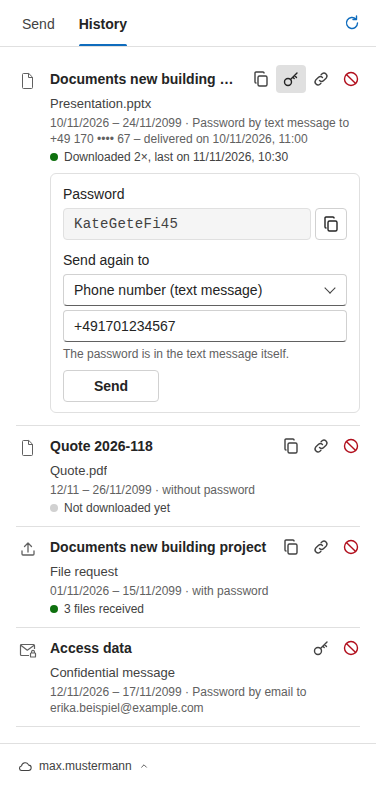
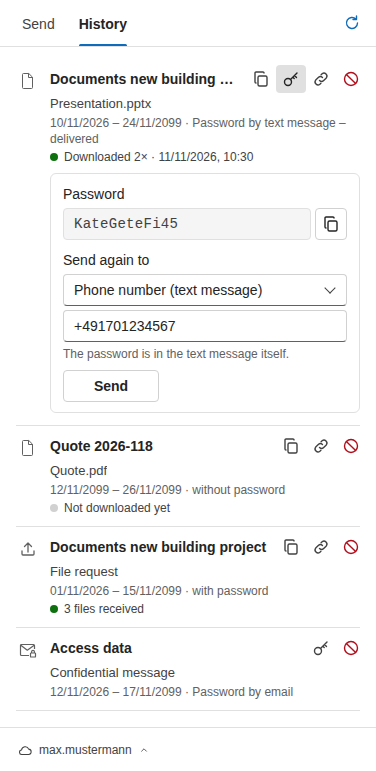
Compact history rows; dates dd.mm.yyyy, times HH:MM Uhr (#97)
* Compact history rows; dates always dd.mm.yyyy, times "HH:MM Uhr"

- "Verlauf": the delivery proof is a small seal after the file name (tracking
  ID in its tooltip, a click opens the PDF) instead of a line and a button;
  the password line names only the way (address and SMS state in the
  tooltip); the download state in one line.
- Every date in pane, cards, mails and PDF as dd.mm.yyyy, every time as
  "HH:MM Uhr" (en: dd/mm/yyyy, HH:MM); the PDF's "valid until" too.

* Read-mode test: the short password line; README pictures

---------

diff --git a/addin/src/taskpane/taskpane.ts b/addin/src/taskpane/taskpane.ts
@@ -1105,7 +1105,9 @@ function settingsProblem(kind: "file" | "request" | "message"): string | null {
   return null;
 }
 
-const formatDate = (isoDate: string) => new Date(isoDate).toLocaleDateString(locale());
+/** Every date in the pane and the cards: day and month with two digits and the full year ("02.12.2026"). */
+const DATE_FORMAT = { day: "2-digit", month: "2-digit", year: "numeric" } as const;
+const formatDate = (when: string | number) => new Date(when).toLocaleDateString(locale(), DATE_FORMAT);
 
 /** Empty paragraph after an inserted card, so the cursor ends up below it (see insertIntoBody). */
 const AFTER_CARD = "<p style=\"margin:0;\"><br></p>";
@@ -1999,6 +2001,16 @@ interface ShareItem {
 }
 
 /** "Kennwort per SMS an +49 170 •••• 78 – zugestellt am 16.11.2026, 14:05" for the "Verlauf" list. */
+/** The way in a few words for the line ("Kennwort per Mail", "Kennwort per SMS – zugestellt"); the rest in the tooltip. */
+function passwordShort(p: NonNullable<ShareItem["password"]>): string {
+  if (p.channel === "mail") return t("shares.passwordMailShort");
+  const status =
+    p.status === "delivered" ? t("shares.smsDelivered")
+    : p.status === "failed" ? t(p.refused ? "shares.smsFailed" : "shares.smsUndelivered")
+    : t("shares.smsSubmitted");
+  return t("shares.passwordSmsShort", { status });
+}
+
 function passwordText(p: NonNullable<ShareItem["password"]>): string {
   if (p.channel === "mail") return t("shares.passwordMail", { to: p.to });
   const status =
@@ -2066,7 +2078,7 @@ async function openSentMail(share: ShareItem) {
 function formatDateTime(when: string | number): string {
   const d = new Date(when);
   return t("shares.dateTime", {
-    date: d.toLocaleDateString(locale(), { day: "2-digit", month: "2-digit", year: "numeric" }),
+    date: d.toLocaleDateString(locale(), DATE_FORMAT),
     time: d.toLocaleTimeString(locale(), { hour: "2-digit", minute: "2-digit" }),
   });
 }
@@ -2106,9 +2118,8 @@ const isValid = (share: ShareItem) => share.expiration === null || share.expirat
 /** Start of a link's period, without the year if it ends in the same year: "15.11." (de) / "15/11" (en-GB). */
 function shortDate(sharedAt: number, expiration: string): string {
   const from = new Date(sharedAt);
-  return from.getFullYear() === Number(expiration.slice(0, 4))
-    ? from.toLocaleDateString(locale(), { day: "2-digit", month: "2-digit" })
-    : from.toLocaleDateString(locale());
+  void expiration; // always with the year now (dd.mm.yyyy)
+  return formatDate(from.getTime());
 }
 
 /** Copies text; the async clipboard API is not available in every Outlook version. */
@@ -2315,12 +2326,10 @@ function shareRow(share: ShareItem): HTMLElement {
     `<button type="button" class="btn btn-subtle btn-icon copy">${ICONS.copy}</button>` +
     `<button type="button" class="btn btn-subtle btn-icon show-password" aria-expanded="false" hidden>${ICONS.password}</button>` +
     `<button type="button" class="btn btn-subtle btn-icon insert">${ICONS.insert}</button>` +
-    `<button type="button" class="btn btn-subtle btn-icon proof" hidden>${ICONS.proof}</button>` +
     `<button type="button" class="btn btn-subtle btn-icon btn-danger revoke">${ICONS.revoke}</button>` +
     `</div></div>` +
     `<div class="share-meta"><span class="share-period"></span> · <span class="share-password"></span></div>` +
     `<div class="share-meta share-unsent" hidden></div>` +
-    `<div class="share-meta share-proof" hidden></div>` +
     `<div class="share-state${state.done ? " done" : ""}">` +
     `<span class="dot-state" aria-hidden="true"></span><span class="state-text"></span></div>` +
     `<div class="password-panel" hidden></div></div>`;
@@ -2331,16 +2340,6 @@ function shareRow(share: ShareItem): HTMLElement {
   label(row.querySelector<HTMLButtonElement>(".copy")!, t("shares.copyLabel"));
   label(row.querySelector<HTMLButtonElement>(".insert")!, t("shares.insertLabel"));
   label(row.querySelector<HTMLButtonElement>(".revoke")!, t("shares.revokeLabel"));
-  // "Zustellnachweis": the tracking ID below the period, and "Nachweis" opens the PDF in the default browser.
-  if (share.proofId) {
-    const proofLine = row.querySelector<HTMLElement>(".share-proof")!;
-    proofLine.textContent = t("shares.proofLine", { id: share.proofId });
-    proofLine.hidden = false;
-    const proofButton = row.querySelector<HTMLButtonElement>(".proof")!;
-    label(proofButton, t("shares.proofLabel", { id: share.proofId }));
-    proofButton.hidden = false;
-    proofButton.addEventListener("click", () => void openProof(share.proofId!, proofButton));
-  }
   // Too long for the line: shortened in the middle ("cloudshare-icon-va…nten.png"), so the extension stays visible.
   const [start, end] = nameParts(share.name);
   const nameStart = document.createElement("span");
@@ -2389,22 +2388,33 @@ function shareRow(share: ShareItem): HTMLElement {
     } else {
       item.textContent = t(`shares.kind.${share.kind}`);
     }
+    // "Zustellnachweis": a small seal after it – the tracking ID in its tooltip, a click opens the PDF ("Nachweis").
+    if (share.proofId) {
+      const seal = document.createElement("button");
+      seal.type = "button";
+      seal.className = "btn btn-subtle btn-icon proof-seal";
+      seal.innerHTML = ICONS.proof;
+      label(seal, t("shares.proofLabel", { id: share.proofId }));
+      seal.addEventListener("click", () => void openProof(share.proofId!, seal));
+      item.append(seal);
+    }
     row.querySelector(".share-head")!.after(item);
   }
 
   // "15.11. – 29.11.2026 · Kennwort per SMS an +49 170 •••• 72 – übermittelt": the word "Kennwort" only once.
   const period = row.querySelector<HTMLElement>(".share-period")!;
-  const sharedOn = new Date(share.sharedAt).toLocaleDateString(locale());
+  const sharedOn = formatDate(share.sharedAt);
   period.textContent = share.expiration
-    ? t("shares.period", { from: shortDate(share.sharedAt, share.expiration), until: formatDate(share.expiration) })
+    ? t("shares.period", { from: shortDate(share.sharedAt, share.expiration), until: formatDate(`${share.expiration}T12:00:00`) })
     : t("shares.since", { from: sharedOn });
   period.title = [t("shares.sharedOn", { date: sharedOn }), share.expiration ? t("shares.validUntil", { date: formatDate(share.expiration) }) : ""]
     .filter(Boolean)
     .join(", ");
   const passwordLine = row.querySelector<HTMLElement>(".share-password")!;
   passwordLine.textContent = share.password
-    ? passwordText(share.password)
+    ? passwordShort(share.password)
     : t(share.protected === false ? "shares.withoutPassword" : "shares.withPassword");
+  passwordLine.title = share.password ? passwordText(share.password) : "";
   passwordLine.classList.toggle("failed", share.password?.status === "failed");
 
   row.querySelector<HTMLElement>(".state-text")!.textContent = state.text;
@@ -2419,7 +2429,7 @@ function shareRow(share: ShareItem): HTMLElement {
     line.textContent = share.downloads?.count
       ? t("shares.unsentDownloaded")
       : share.revokeAt
-        ? t("shares.unsentRevoke", { date: new Date(share.revokeAt).toLocaleDateString(locale()) })
+        ? t("shares.unsentRevoke", { date: formatDate(share.revokeAt) })
         : t("shares.unsent");
     line.hidden = false;
   }

diff --git a/docs/mockups/proof-pdf.html b/docs/mockups/proof-pdf.html
@@ -29,44 +29,44 @@ body { background: #e8e8e8; padding: 16px; }
 <div class="page">
   <div class="t1">Proof of delivery</div>
   <div class="t2">Case 20261117-1146-7Q2F</div>
-  <div class="intro">CloudShare’s record for the message from max.mustermann@example.com, started on 17 Nov 2026, 11:46:03.</div>
+  <div class="intro">CloudShare’s record for the message from max.mustermann@example.com, started on 17/11/2026, 11:46.</div>
   <div class="ok">Record unchanged: 9 entries, chained without gaps.</div>
   <div class="mono grey7">Check value: 5c0e9b1f7a24d3e86b1f0c9a4d72e5b8a3f61c0d9e47b2a8f5c3d1e09b7a6f42c</div>
 
   <div class="h">Events</div>
-  <div class="ev">1. 17 Nov 2026, 11:46:03 – Proof of delivery started</div>
+  <div class="ev">1. 17/11/2026, 11:46 – Proof of delivery started</div>
   <div class="d">Sender: max.mustermann@example.com</div>
   <div class="d">Outlook: Outlook · PC · 16.0.18129.20000</div>
   <div class="mono hash">Hash: 9f2c61e0b4a8d37c5e1f09a2b6d48c73e05f1a9b2c8d4e6f7a3b1c0d9e8f7a61</div>
 
-  <div class="ev">2. 17 Nov 2026, 11:46:41 – Link created: file</div>
+  <div class="ev">2. 17/11/2026, 11:46 – Link created: file</div>
   <div class="d">Name: Angebot_2026-118.pdf</div>
-  <div class="d">Protection: password · Valid until: 2026-12-01 · Size: 2.5 MB (2,621,440 B)</div>
+  <div class="d">Protection: password · Valid until: 01/12/2026 · Size: 2.5 MB (2,621,440 B)</div>
   <div class="d">Password to: the recipients of the message · Password retrievable (times): 3</div>
   <div class="mono m">SHA-256: 3a7bd3e2360a3d29eea436fcfb7e44c735d117c42d1c1835420b6b9942dd4f1b</div>
   <div class="mono hash">Hash: 1b8e4c2a9f07d6e35b1c8a40f2e9d7c6b5a43e21f0d9c8b7a6e5d4c3b2a1f0e9</div>
 
-  <div class="ev">3. 17 Nov 2026, 11:47:20 – Message sent</div>
+  <div class="ev">3. 17/11/2026, 11:47 – Message sent</div>
   <div class="d">Subject: Quote 2026-118 · From: max.mustermann@example.com</div>
-  <div class="d">To: erika.beispiel@example.com · Sent: 17 Nov 2026, 11:47:12</div>
+  <div class="d">To: erika.beispiel@example.com · Sent: 17/11/2026, 11:47</div>
   <div class="mono m">Message-ID: &lt;AM9PR04MB8423D1F2C3B4A5E6F7A8B9C0D1E2F3A4@AM9PR04MB8423.eurprd04.prod.outlook.com&gt;</div>
   <div class="mono hash">Hash: c4d7e2a1b09f8e6d5c3b2a1f0e9d8c7b6a5f4e3d2c1b0a9f8e7d6c5b4a3f2e1d</div>
 
-  <div class="ev">4. 17 Nov 2026, 11:47:21 – Password sent by email</div>
+  <div class="ev">4. 17/11/2026, 11:47 – Password sent by email</div>
   <div class="d">To: erika.beispiel@example.com</div>
 
-  <div class="ev">5. 17 Nov 2026, 14:02:37 – Code sent to recipient</div>
+  <div class="ev">5. 17/11/2026, 14:02 – Code sent to recipient</div>
   <div class="d">Email address: erika.beispiel@example.com · IP address: 203.0.113.24</div>
 
-  <div class="ev">6. 17 Nov 2026, 14:03:05 – Recipient confirmed</div>
+  <div class="ev">6. 17/11/2026, 14:03 – Recipient confirmed</div>
   <div class="d">Email address: erika.beispiel@example.com · IP address: 203.0.113.24</div>
   <div class="d">Browser: Mozilla/5.0 (Windows NT 10.0; Win64; x64) … Edg/142.0</div>
 
-  <div class="ev">7. 17 Nov 2026, 14:10:00 – Password link opened</div>
+  <div class="ev">7. 17/11/2026, 14:10 – Password link opened</div>
   <div class="d">Total accesses: 1</div>
 
-  <div class="ev">8. 17 Nov 2026, 14:10:00 – Downloaded</div>
-  <div class="d">Time according to Nextcloud: 17 Nov 2026, 14:03:31 · Concerns: Angebot_2026-118.pdf</div>
+  <div class="ev">8. 17/11/2026, 14:10 – Downloaded</div>
+  <div class="d">Time according to Nextcloud: 17/11/2026, 14:03 · Concerns: Angebot_2026-118.pdf</div>
   <div class="mono hash">Hash: 7e6d5c4b3a2f1e0d9c8b7a6f5e4d3c2b1a0f9e8d7c6b5a4f3e2d1c0b9a8f7e6d</div>
 
   <div class="foot">Proof of delivery 20261117-1146-7Q2F · page 1 of 2</div>

diff --git a/addin/e2e/taskpane.e2e.ts b/addin/e2e/taskpane.e2e.ts
@@ -1335,15 +1335,17 @@ test("Verlauf: shows the state of each link and revokes after confirmation", asy
   await page.click("#tab-send");
   await expect(refresh).toBeHidden();
   await page.click("#tab-shares");
-  await expect(rows.nth(0).locator(".state-text")).toHaveText("2× heruntergeladen, zuletzt 11.11.2026, 10:30 Uhr"); // with the year
+  await expect(rows.nth(0).locator(".state-text")).toHaveText("2× heruntergeladen · 11.11.2026, 10:30 Uhr");
   await expect(rows.nth(1).locator(".state-text")).toHaveText("Noch nicht heruntergeladen");
   await expect(rows.nth(2).locator(".state-text")).toHaveText("3 Dateien empfangen");
   // One short line: period and password – the word "Kennwort" only once.
   const meta = rows.nth(0).locator(".share-meta").first();
   await expect(meta.locator(".share-period")).toHaveText("10.11.2026 – 24.11.2099");
-  await expect(meta.locator(".share-password")).toContainText("Kennwort per SMS an +49 170 •••• 67 – zugestellt am 10.11.2026, 11:00 Uhr");
+  // The way in a few words; number and time of the delivery in the tooltip.
+  await expect(meta.locator(".share-password")).toHaveText("Kennwort per SMS – zugestellt");
+  await expect(meta.locator(".share-password")).toHaveAttribute("title", "Kennwort per SMS an +49 170 •••• 67 – zugestellt am 10.11.2026, 11:00 Uhr");
   expect((await meta.textContent())!.match(/Kennwort/g)).toHaveLength(1);
-  await expect(rows.nth(1).locator(".share-period")).toHaveText("12.11. – 26.11.2099"); // same year: no year at the start
+  await expect(rows.nth(1).locator(".share-period")).toHaveText("12.11.2099 – 26.11.2099"); // always dd.mm.yyyy
   await expect(rows.nth(1).locator(".share-password")).toHaveText("ohne Kennwort");
   await expect(rows.nth(2).locator(".share-password")).toHaveText("mit Kennwort");
   // Icons instead of words; the words are the buttons' names.
@@ -1416,9 +1418,9 @@ test("Verlauf: a failed SMS says whether it was sent at all, and how to send the
   await page.click("#tab-shares");
   const rows = page.locator("#shares .share");
   // seven.io refused it right away (key, credit, limit).
-  await expect(rows.nth(0).locator(".share-password")).toHaveText("Kennwort per SMS an +49 170 •••• 67 – nicht versendet – bitte erneut senden");
+  await expect(rows.nth(0).locator(".share-password")).toHaveText("Kennwort per SMS – nicht versendet – bitte erneut senden");
   // seven.io accepted it and reported "not delivered" later.
-  await expect(rows.nth(1).locator(".share-password")).toHaveText("Kennwort per SMS an +49 170 •••• 67 – nicht zugestellt – bitte erneut senden");
+  await expect(rows.nth(1).locator(".share-password")).toHaveText("Kennwort per SMS – nicht zugestellt – bitte erneut senden");
   await expect(rows.nth(1).locator(".share-password")).toHaveClass(/failed/);
 });
 
@@ -1589,7 +1591,8 @@ test("reading a mail: tabs 'Nachricht' and 'Verlauf', nothing to insert", async 
   const inMail = page.locator("#mail-shares .share");
   await expect(inMail).toHaveCount(2);
   await expect(inMail.nth(0).locator(".share-name")).toHaveText("Präsentation.pptx");
-  await expect(inMail.nth(0).locator(".share-password")).toContainText("zugestellt am 10.11.2026, 11:00 Uhr");
+  await expect(inMail.nth(0).locator(".share-password")).toHaveText("Kennwort per SMS – zugestellt");
+  await expect(inMail.nth(0).locator(".share-password")).toHaveAttribute("title", /zugestellt am 10.11.2026, 11:00 Uhr/);
   await expect(inMail.nth(1).locator(".share-item")).toHaveText("Dateianforderung");
   await expect(page.locator("#mail-none")).toBeHidden();
   // Reading a mail too: "Aktualisieren" in the tab bar, the account at the bottom.

diff --git a/server/src/notices.ts b/server/src/notices.ts
@@ -15,7 +15,7 @@ import type { FastifyBaseLogger } from "fastify";
 import { appGraphToken, HttpError } from "./auth.js";
 import { config } from "./config.js";
 import { getCredentials, removeCredentials } from "./credentials.js";
-import { inSenderLanguage, locale, t } from "./i18n.js";
+import { formatDate, formatDateTime, inSenderLanguage, t } from "./i18n.js";
 import { sendMailAsApp } from "./graph.js";
 import { NextcloudClient, NOT_CONNECTED } from "./nextcloud.js";
 import { PersistentMap } from "./db.js";
@@ -72,15 +72,9 @@ export async function registerNotices(entries: Array<[string, Notice]>): Promise
 export const pendingNotices = () => [...notices.entries()];
 
 const tokenOf = (url: string) => url.replace(/\/+$/, "").split("/").pop() ?? "";
-const formatDay = (iso: string) => new Date(`${iso}T12:00:00Z`).toLocaleDateString(locale(), { timeZone: config.timeZone });
-/** "16.11.2026, 00:42 Uhr" / "16 Nov 2026, 00:42" – the wording from "mail.dateTime". */
-const formatTime = (iso: string) => {
-  const d = new Date(iso);
-  return t("mail.dateTime", {
-    date: d.toLocaleDateString(locale(), { timeZone: config.timeZone, dateStyle: "medium" }),
-    time: d.toLocaleTimeString(locale(), { timeZone: config.timeZone, timeStyle: "short" }),
-  });
-};
+const formatDay = (iso: string) => formatDate(Date.parse(`${iso}T12:00:00Z`));
+/** "16.11.2026, 00:42 Uhr" / "16/11/2026, 00:42" – the wording from "mail.dateTime". */
+const formatTime = (iso: string) => formatDateTime(Date.parse(iso));
 
 /** One pass (exported for tests; normally driven by startNotices). */
 export async function runNotices(log: Pick<FastifyBaseLogger, "info" | "warn">, now = Date.now()) {

diff --git a/server/src/proofPdf.ts b/server/src/proofPdf.ts
@@ -3,12 +3,11 @@
  * date and time and its hash, and whether the chain is intact. In the language of the sender's add-in.
  */
 import { config } from "./config.js";
-import { inSenderLanguage, locale, t } from "./i18n.js";
+import { formatDate, formatDateTime, inSenderLanguage, locale, t } from "./i18n.js";
 import { pdfDocument, type PdfLine } from "./pdf.js";
 import { verifyCase, type ProofCase, type ProofEvent } from "./proof.js";
 
-const time = (ms: number) =>
-  new Date(ms).toLocaleString(locale(), { timeZone: config.timeZone, dateStyle: "medium", timeStyle: "medium" });
+const time = (ms: number) => formatDateTime(ms);
 
 const isoTime = (iso: unknown) => (typeof iso === "string" && Number.isFinite(Date.parse(iso)) ? time(Date.parse(iso)) : "");
 
@@ -50,7 +49,7 @@ function describe(e: ProofEvent, c: ProofCase): { label: string; details: Array<
       const details: Array<[string, string]> = [
         [t("mail.proof.field.name"), text(d.name)],
         [t("mail.proof.field.protection"), t(d.protection === "none" ? "mail.proof.protection.none" : "mail.proof.protection.password")],
-        [t("mail.proof.field.expires"), text(d.expireDate)],
+        [t("mail.proof.field.expires"), typeof d.expireDate === "string" ? formatDate(Date.parse(`${d.expireDate}T12:00:00Z`)) : ""],
       ];
       if (typeof d.size === "number") details.push([t("mail.proof.field.size"), size(d.size)]);
       if (Array.isArray(d.passwordWays) && d.passwordWays.length) details.push([t("mail.proof.field.passwordWays"), d.passwordWays.map(way).join(", ")]);

diff --git a/server/src/proofMail.ts b/server/src/proofMail.ts
@@ -8,9 +8,8 @@
  *   locked   – the gateway refused code requests for a while: too many addresses that are no recipients (proofGateway.ts).
  */
 import { appGraphToken } from "./auth.js";
-import { config } from "./config.js";
 import { sendMailAsApp } from "./graph.js";
-import { inSenderLanguage, locale, t } from "./i18n.js";
+import { formatDateTime, inSenderLanguage, t } from "./i18n.js";
 import { mailDocument, paragraph } from "./mailLayout.js";
 import { addEvent, type ProofCase } from "./proof.js";
 import { proofPdf } from "./proofPdf.js";
@@ -19,8 +18,7 @@ import { proofPdf } from "./proofPdf.js";
 export const caseSubject = (c: ProofCase) =>
   String([...c.events].reverse().find((e) => e.type === "message.sent")?.data.subject ?? "");
 
-const time = (ms: number) =>
-  new Date(ms).toLocaleString(locale(), { timeZone: config.timeZone, dateStyle: "medium", timeStyle: "short" });
+const time = (ms: number) => formatDateTime(ms);
 
 /** The PDF as an attachment ("Zustellnachweis-20261117-1146-7Q2F.pdf"). */
 const pdfAttachment = (c: ProofCase) => ({

diff --git a/server/src/i18n.ts b/server/src/i18n.ts
@@ -211,7 +211,15 @@ export const locale = () => {
 };
 
 /** Date in the language's format and the configured time zone ("19.11.2026"). */
-export const formatDate = (ms: number) => new Date(ms).toLocaleDateString(locale(), { timeZone: config.timeZone });
+export const formatDate = (ms: number) =>
+  new Date(ms).toLocaleDateString(locale(), { timeZone: config.timeZone, day: "2-digit", month: "2-digit", year: "numeric" });
+
+/** Date and time ("18.11.2026, 15:58 Uhr" – the wording of "mail.dateTime") in the configured time zone. */
+export const formatDateTime = (ms: number) =>
+  t("mail.dateTime", {
+    date: formatDate(ms),
+    time: new Date(ms).toLocaleTimeString(locale(), { timeZone: config.timeZone, hour: "2-digit", minute: "2-digit" }),
+  });
 
 /** Picks the plural form for `count`, then fills {name} placeholders (unknown ones stay visible). */
 export function format(texts: Section, key: string, vars: Record<string, string | number> = {}): string {

diff --git a/addin/src/taskpane/taskpane.css b/addin/src/taskpane/taskpane.css
@@ -498,6 +498,9 @@ button.share-title:hover { color: var(--brand-fg); text-decoration: underline; t
 button.share-title:focus-visible { outline: 2px solid var(--focus); outline-offset: 1px; border-radius: 2px; }
 .share-item { display: flex; align-items: center; min-width: 0; margin: 2px 0; font-size: 13px; line-height: 18px; color: var(--fg2); }
 .share-item .share-name { font-weight: 400; flex: 0 1 auto; }
+/* "Zustellnachweis": a small seal after the file name – a click opens the PDF, the tracking ID is in its tooltip. */
+.share-item .proof-seal { flex: none; width: 22px; height: 22px; min-width: 0; padding: 1px; margin-left: 4px; color: var(--fg2); }
+.share-item .proof-seal .icon { width: 16px; height: 16px; }
 .share-meta { font-size: 12px; line-height: 16px; color: var(--fg3); }
 .share-password.failed { color: var(--danger-fg); }
 .share-unsent { color: var(--fg2); font-weight: 600; }

diff --git a/CLAUDE.md b/CLAUDE.md
@@ -23,7 +23,7 @@ One container serves everything behind Caddy:
 - Nextcloud does not accept Entra tokens (typically it logs in via another IdP, e.g. Keycloak through `user_oidc`). Instead each user connects once via Nextcloud Login Flow v2; the resulting app password is stored encrypted per Entra `oid` in the database (`credentials.ts`, store `credentials`, key `CREDENTIAL_KEY`) and used as Basic auth. A 401 from Nextcloud deletes the stored credential and returns error code `NEXTCLOUD_NOT_CONNECTED`, which makes the taskpane show the connect view.
 - Nextcloud access is server-to-server (no CORS on Nextcloud): WebDAV chunked upload v2 + OCS share API (`nextcloud.ts`). Nextcloud-reported URLs are rewritten onto `NEXTCLOUD_URL`. Vaultwarden Sends are created through `bw serve` running in the same container on 127.0.0.1:8087 with a service account (`vaultwarden.ts`). Upload/job/pending-login state is in-memory (`store.ts`) → single instance only.
 - `addin/` – XML manifest + taskpane (Nextcloud connect/disconnect, converts existing attachments via `getAttachmentContentAsync` → upload → `removeAttachmentAsync`, plus file picker (`window.showOpenFilePicker` first, hidden `<input type="file">` as fallback – classic Outlook's WebView did not reliably open the dialog for a file input; steps are traced with `CLIENT_TRACE`) and drag & drop onto the "Senden" tab for files beyond Outlook's limit – in classic Outlook the WebView2 file dialog sometimes opens behind the Outlook window; inserts links) + event handlers in `commands.ts`: `OnMessageAttachmentsChanged` shows an InsightMessage with a "open taskpane" action (add-ins cannot open the taskpane themselves), `OnMessageRecipientsChanged` runs the same check (the size depends on the recipients: `ATTACHMENT_THRESHOLD_MB` as soon as one is outside `INTERNAL_DOMAINS` – default the user's own domain –, else `ATTACHMENT_THRESHOLD_INTERNAL_MB` and `ATTACHMENT_POLICY_INTERNAL`, also without recipients; `attachmentRule` in `shared/office.ts`, 0 = every attachment, no "Groß" badge, texts without a size), `OnMessageSend` runs with manifest `SendMode="SoftBlock"`; env `ATTACHMENT_POLICY` (served via `/api/config`, cached in `roamingSettings`) decides: `enforce` blocks large attachments before arming the password mail (no "Send anyway"), `suggest` arms the password mail first and relaxes to PromptUser via `sendModeOverride` (Mailbox 1.14). The taskpane mimics Outlook (Fluent 2 tokens, Office theme, Outlook wording "Nachricht"/"Kennwort") – keep new UI consistent with that. The message bar stays in sight at the top while the pane scrolls (`position: sticky`). Messages run down (`SUCCESS_MESSAGE_SECONDS`, default 5: a ring around the tick, "!" or "i" empties clockwise, paused on hover/focus, `setStatus`); progress (kind `progress`) and messages with "Erneut versuchen" stay. Bundled as IIFE because classic Outlook runs the handlers in a JavaScript-only runtime (no DOM, no ES modules); `commands.js` is built with target `es2016` and without `Headers`/`Promise.finally` (guarded by `addin/test/bundle.test.ts`); it registers its handlers immediately (classic) and again in `Office.onReady` (browser runtime: office.js loads `Office.actions` only after the script ran – `commands-load.test.ts`), and that runtime only allows SSO and fetch because the server serves `/.well-known/microsoft-officeaddins-allowed.json` listing `commands.js`.
-- Taskpane has two tabs: "Senden" and "Verlauf" (`/api/shares`: all valid links, loaded with the tab, on focus and by `#refresh-shares` in the tab bar (only on the link tabs); one quiet bottom bar `.account-bar` under every tab, the help and the settings (one line: the account as a menu button `#account-toggle` like Outlook's profile menu – `#account-menu` opens above it with icon entries "Nextcloud öffnen" `#nextcloud-open` (NEXTCLOUD_URL from `/api/config` in the default browser, `openBrowserWindow`), "Einstellungen" `#settings-open`, "Hilfe" `#help-toggle` and "Verbindung trennen" `#disconnect` (two clicks like "Zurückziehen": `armDisconnect`), closes on Escape or a click elsewhere; its head `.account-menu-head` shows the whole name `#account-menu-name` and the storage `#account-storage` with a bar `#storage-meter` (used share of the quota, red from 90 %) – nothing else in the bar; fixed height `--bar-height`, the "Senden" footer sticks above it; variants are shown to the user before UI changes like this); one entry per link or confidential message: title = subject of its sent mail (`history.ts`, store `sent-mails`, Graph ID with `Prefer: IdType="ImmutableId"`; a click opens the mail via `openSentMail`: `GET /api/shares/:id/mail` translates the stored immutable ID into the current EWS ID with Graph `translateExchangeIds`, then `displayMessageFormAsync` – own mailbox only), below it plain text (file name, "Dateianforderung", "Vertrauliche Nachricht"), the kind as the symbol on the left (document, upload arrow, envelope with lock – no labels or coloured badges) (before sending: the draft's subject, sent with every link request as `subject`, `recordDraftSubject`; a subject typed later follows via `PATCH /api/jobs/:id` from the 4-second check `syncDraftSubject`; unsent without subject "(Noch kein Betreff)", older entries "(Betreff unbekannt)"), icon buttons Kopieren/Kennwort/Einfügen/Zurückziehen next to the title (messages: store `messages`, token `msg-<Send ID>`, only Kennwort and Zurückziehen – CloudShare never keeps their key) (long names shortened in the middle, extension kept – `nameParts`) (`ICONS` in `taskpane.ts`, also filled into the help via `data-icon`) and one meta line "period · password"; revoke via `DELETE /api/shares/:id`, `revokeShare` in `shares.ts`; links are created on insert, so links whose job has not been dispatched are marked `unsent` – a job that expires without ever being armed (draft discarded, `armedOnce: false`) gets its links revoked by the watcher via `onUnsentExpired`/`revokeUnsentLinks`); "Hilfe" in the account menu (`#help-toggle`, `showHelp`) shows the guide in place of the current tab – a user guide for everyday users, `<details>` sections with texts `help.*` in the language files (keep it in plain words and in step with the UI when features change). "Senden" starts with a switch (`kind` radios, `selectKind`/`renderKind` in `taskpane.ts`) between "Dateien" (attachments + drop zone), "Nachricht" ("Vertrauliche Nachricht" via `/api/messages` = a Vaultwarden text Send protected with the step password, never stored in Nextcloud) and "Anfordern" (upload link via `/api/requests`); only the chosen part is shown and the single footer button `#submit` names what it inserts (`renderSubmit`). Below: password; the block "Empfänger", always in sight – "Kennwort an" (`<select>`), "Sprache" (`#recipient-language`) and for files the switch "Zustellnachweis" (`#proof`, `role="switch"`), label and control in one row (`.inline-row`); and "Gültigkeit" collapsed behind a one-line summary of the times (`renderValidity`). "Ohne Kennwort" is only offered for "Dateien" – prevent invalid choices in the UI rather than reporting them after the click. Read mode: the manifest also has a pinnable `MessageReadCommandSurface` button (plus legacy `ItemRead` form) opening `taskpane.html?view=read` (`readMode`, `startReadView`) – tabs "Nachricht" (`#tab-mail`/`#panel-mail`: the shares whose token (`/s/<token>`) appears in the read mail's body, `mailTokens`; selected again on `ItemChanged`, in place of "Senden") and "Verlauf" (all valid links, as when writing); no server-side mail↔share mapping, no new permissions. A manifest change needs a new `<Version>`. Links are inserted as an email-safe HTML card (`addin/src/taskpane/mailCard.ts`, tables + inline styles, no signature – the sender's signature goes into the password mail, see below).
+- Taskpane has two tabs: "Senden" and "Verlauf" (`/api/shares`: all valid links, loaded with the tab, on focus and by `#refresh-shares` in the tab bar (only on the link tabs); one quiet bottom bar `.account-bar` under every tab, the help and the settings (one line: the account as a menu button `#account-toggle` like Outlook's profile menu – `#account-menu` opens above it with icon entries "Nextcloud öffnen" `#nextcloud-open` (NEXTCLOUD_URL from `/api/config` in the default browser, `openBrowserWindow`), "Einstellungen" `#settings-open`, "Hilfe" `#help-toggle` and "Verbindung trennen" `#disconnect` (two clicks like "Zurückziehen": `armDisconnect`), closes on Escape or a click elsewhere; its head `.account-menu-head` shows the whole name `#account-menu-name` and the storage `#account-storage` with a bar `#storage-meter` (used share of the quota, red from 90 %) – nothing else in the bar; fixed height `--bar-height`, the "Senden" footer sticks above it; variants are shown to the user before UI changes like this); one entry per link or confidential message: title = subject of its sent mail (`history.ts`, store `sent-mails`, Graph ID with `Prefer: IdType="ImmutableId"`; a click opens the mail via `openSentMail`: `GET /api/shares/:id/mail` translates the stored immutable ID into the current EWS ID with Graph `translateExchangeIds`, then `displayMessageFormAsync` – own mailbox only), below it plain text (file name, "Dateianforderung", "Vertrauliche Nachricht"), the kind as the symbol on the left (document, upload arrow, envelope with lock – no labels or coloured badges) (before sending: the draft's subject, sent with every link request as `subject`, `recordDraftSubject`; a subject typed later follows via `PATCH /api/jobs/:id` from the 4-second check `syncDraftSubject`; unsent without subject "(Noch kein Betreff)", older entries "(Betreff unbekannt)"), icon buttons Kopieren/Kennwort/Einfügen/Zurückziehen next to the title (messages: store `messages`, token `msg-<Send ID>`, only Kennwort and Zurückziehen – CloudShare never keeps their key) (long names shortened in the middle, extension kept – `nameParts`) (`ICONS` in `taskpane.ts`, also filled into the help via `data-icon`) and one meta line "period · password" (short: "Kennwort per Mail", the address and SMS state in its tooltip; dates always dd.mm.yyyy, times "HH:MM Uhr"; a delivery proof is a small seal `.proof-seal` after the file name that opens its PDF); revoke via `DELETE /api/shares/:id`, `revokeShare` in `shares.ts`; links are created on insert, so links whose job has not been dispatched are marked `unsent` – a job that expires without ever being armed (draft discarded, `armedOnce: false`) gets its links revoked by the watcher via `onUnsentExpired`/`revokeUnsentLinks`); "Hilfe" in the account menu (`#help-toggle`, `showHelp`) shows the guide in place of the current tab – a user guide for everyday users, `<details>` sections with texts `help.*` in the language files (keep it in plain words and in step with the UI when features change). "Senden" starts with a switch (`kind` radios, `selectKind`/`renderKind` in `taskpane.ts`) between "Dateien" (attachments + drop zone), "Nachricht" ("Vertrauliche Nachricht" via `/api/messages` = a Vaultwarden text Send protected with the step password, never stored in Nextcloud) and "Anfordern" (upload link via `/api/requests`); only the chosen part is shown and the single footer button `#submit` names what it inserts (`renderSubmit`). Below: password; the block "Empfänger", always in sight – "Kennwort an" (`<select>`), "Sprache" (`#recipient-language`) and for files the switch "Zustellnachweis" (`#proof`, `role="switch"`), label and control in one row (`.inline-row`); and "Gültigkeit" collapsed behind a one-line summary of the times (`renderValidity`). "Ohne Kennwort" is only offered for "Dateien" – prevent invalid choices in the UI rather than reporting them after the click. Read mode: the manifest also has a pinnable `MessageReadCommandSurface` button (plus legacy `ItemRead` form) opening `taskpane.html?view=read` (`readMode`, `startReadView`) – tabs "Nachricht" (`#tab-mail`/`#panel-mail`: the shares whose token (`/s/<token>`) appears in the read mail's body, `mailTokens`; selected again on `ItemChanged`, in place of "Senden") and "Verlauf" (all valid links, as when writing); no server-side mail↔share mapping, no new permissions. A manifest change needs a new `<Version>`. Links are inserted as an email-safe HTML card (`addin/src/taskpane/mailCard.ts`, tables + inline styles, no signature – the sender's signature goes into the password mail, see below).
 - Personal settings ("Einstellungen" `#settings-open` in the account menu of the bottom bar, `#panel-settings` shown in place of the tab like the help – `showOverlay`): add-in `settings.ts` (form, `loadSettings`, `userSettings`), server `settings.ts` (store `settings`, `retention: false`, only changed fields; `settingsFor` = `config.userDefaults` from `DEFAULT_*` + stored + `availableSettings`), `/api/settings` GET/PUT/DELETE. Covers the offered password ways and the preselected one (`applyChannelChoices`, keeps the way a mail already uses), the notices (checked in `attachNoticeJob`, `runNotices`, `noteUndeliveredSms`; only where the server switch is on), the add-in language (`auto` or a code, also in `roamingSettings` `cloudshare-settings` → `preferredLanguage` in `i18n.ts`; reload once when it differs) and the signature of the password mails (`server/src/signature.ts`, `signatureHtml`: own text or else `MAIL_FOOTER`, plain text only – deliberately no formatted/HTML signature; empty line = paragraph (`signatureParagraphs`), profile placeholders via `fillTemplate`, escaped, each paragraph a `<p>` in `TEXT_STYLE` like "Guten Tag"; fixed in `PasswordJob.signature` when arming, built anew for "send again"). The link card carries no signature. SMS rules and server switches are never user settings. Keep the help section `help.settings.*` in step.
 - Per-draft state lives in `item.sessionData` (`DraftState` in `shared/office.ts`: `jobId`, `password`, `noPassword`, `maxAccess`, `passwordTo` = other password recipient (job field, only that address gets the password mail), `separate` = one password and password mail per "Als Link einfügen" step (`step` ID per click, `PasswordJob.separate`), `lastStep` = ID and password of the last step with a password – after it "Gleiches Kennwort wie zuvor" (`#mode-same`) is preselected and the next click reuses that step (`stepForClick`, joins the part on the server: one password, one password mail/SMS for files, message and upload link), `links` = share tokens of inserted links; if none of them is left in the body, `releaseDraftIfLinksGone` drops job/password/tag – taskpane on focus and every 4 s while locked, send handler before arming; drafts without `links` are never released). All files of one mail share one password, one Vaultwarden Send and one password mail (or, with "Ohne Kennwort" – file links only, `noPassword: true` on `/complete` – no password, no Send; with `DOWNLOAD_NOTICE` a job without password (`PasswordJob.noPassword`, `noticeShares`) only waits for the sent mail to register the download confirmation; `DraftState.noPassword` + `jobId`). With "per SMS" the pane hides "Kennwort abrufbar"/"Kennwort-Link gültig für" and SMS steps get Sends with `SEND_MAX_EXPIRE_DAYS`; the backend appends to an existing job via `jobId` on `/complete` unless it was already dispatched. The password mail is sent only after the mail was really sent: the taskpane tags the draft with the Office.js custom property `cloudshareJob` (MAPI `cecp-<add-in ID>`, `ADDIN_ID` env must match the manifest `<Id>`), the send handler only arms the job (`/api/jobs/:id/arm`, stores a Graph token with Mail.Read(.Shared) + Mail.Send(.Shared); the handler passes a "From" that differs from the user so shared-mailbox "Sent Items" are searched too and the password mail uses the same sender), and `server/src/jobs.ts` polls "Sent Items" and then mails the actual recipients. Password channel per insertion (each link request carries `passwordTo`/`passwordSms`, `deliveryFrom`; a step collects the ways of its links in `SeparatePart.deliveries` and sends each once – `partDeliveries`, `sentWays`; older steps fall back to the job's one way set by `PATCH`/`/arm`): recipients, `passwordTo` or `passwordSms` (seven.io, `sms.ts`, after sending, password read from the Send, webhook `/webhooks/seven`, status in `deliveries.ts`; `SMS_ALLOWED_COUNTRIES` limits the countries by calling code (`countries.ts` reads ISO codes, calling codes, German/English names and groups), `SMS_ALLOWED_NUMBERS`/`SMS_BLOCKED_NUMBERS` are regular expressions on the E.164 number (default blocks 0800/0900/0180; landlines allowed) – `smsNumberProblem` in `sms.ts` and `taskpane.ts`, the pane refuses such numbers while they are entered, the server on `PATCH`/resend and before every SMS; a failed SMS never falls back to another channel – the sender gets a note without password, `smsProblemMailHtml`; a refused SMS right away with the armed token, one reported later as not delivered only with `SMS_NOTICE` (app token; unset it follows `DOWNLOAD_NOTICE`, `envFlag` in `config.ts`)). Sends have two dates: recipients' access ("Kennwort-Link gültig für") and deletion = link expiry, so links with password last at most 30 days (Vaultwarden limit, `passwordLinkMaxDays`); `passwordRefs.ts` stores only the Send ID per sent step so the owner can see and resend the password ("Kennwort" in "Verlauf", `/api/shares/:id/password[/send]`) until the links expire – CloudShare never stores passwords itself; optional `templates.json` (`templates.ts`, user → department → default) and download confirmation (`notices.ts`, app permission `Mail.Send`, `DOWNLOAD_NOTICE`) and upload notification (same module, `UPLOAD_NOTICE`: upload links are `StepShare.request` with `knownFiles`, registered as `kind: "upload"`, each pass mails the new files of the folder until the link expires); every mail CloudShare sends itself (password mail, download confirmation, SMS notes) uses `mailLayout.ts` – text, one card with an accent per kind (blue password, green downloaded, red problem), the line `mail.automatic`; keep new mails in that layout. All persistent state (jobs, password entries, deliveries, notices, the cleanup list of uploaded files – `cleanup.ts`, `CLEANUP_AFTER_DAYS`, deletes upload folders after link expiry – and the Nextcloud connections) lives in one SQLite database `/data/cloudshare.db` (`db.ts`, Node 24 built-in `node:sqlite`): one table `entries (store, key, data)`, every row sealed AES-GCM with `CREDENTIAL_KEY` (`storage.ts`); each module keeps a `PersistentMap` in memory – `set`/`delete` write their row, an entry changed in place needs `map.save(key)`; a daily pass deletes rows not written for `DATA_RETENTION_DAYS` (default 365, `startRetention`), except maps created with `retention: false` (connections, cleanup list). No upload size cap except the user's Nextcloud quota (checked up front via OCS `cloud/user`, 507 → `NEXTCLOUD_QUOTA_EXCEEDED`).
 - Sensitivity labels (`docs/architecture.md` 2.13): `addin/src/taskpane/labels.ts` reads the Purview label (names and priority from `GET /api/labels` – Graph with the optional delegated `InformationProtectionPolicy.Read` –, else Outlook's catalog) from the shared file itself (OOXML `docMetadata/LabelInfo.xml` or `docProps/custom.xml`, compound files incl. encrypted Office files via the unencrypted `LabelInfo` stream, PDF XMP, `.pfile` = protected), shown under the file name in the list; after inserting, the mail gets the highest label of its files via `item.sensitivityLabel` (catalog order = rank, never lowered; `LABEL_POLICY` inherit/suggest/off), encrypted files get a note below the file list and need its box ticked (`LABEL_ENCRYPTED` warn/block/allow). Tests use example label IDs only.

diff --git a/README.md b/README.md
@@ -406,7 +406,7 @@ default, offered for "Files" only (not for a confidential message or an upload l
   the address the mail went to and gets a six-digit code from the sender's mailbox; with it the browser goes on to
   Nextcloud (the password is still needed). Address, time, IP address and browser are recorded. Only addresses the
   mail went to get a code – **a distribution list does not work**, recipients use their own address from the mail.
-- **PDF**: "Proof" (document with a seal) in "History" opens it in the default browser – brought up to date right
+- **PDF**: the small seal next to the file name in "History" (the tracking ID in its tooltip) opens it in the default browser – brought up to date right
   before (downloads are otherwise collected every 10 minutes). The sender also gets it **by mail**: after the first
   download (this mail replaces the plain download confirmation for such links) and once more, complete, when all links
   expired or were revoked. Downloads come from Nextcloud's activity – the Activity app must be enabled.

diff --git a/docs/architecture.md b/docs/architecture.md
@@ -468,7 +468,7 @@ offered with `DELIVERY_PROOF`, which follows `DOWNLOAD_NOTICE` when unset – it
   requests for an hour (same answer, nothing sent; `gateway.locked`) and mail the sender the attempts once
   (`sendLockNotice`). In memory, like the codes.
 - **PDF** (`proofPdf.ts`, `pdf.ts` – a small writer of its own, no dependency, standard fonts in WinAnsi):
-  "Nachweis" in "Verlauf" asks `POST /api/proofs/:id/link` for an address signed with a key derived from
+  the seal next to the file name in "Verlauf" (`.proof-seal`) asks `POST /api/proofs/:id/link` for an address signed with a key derived from
   `CREDENTIAL_KEY` and valid five minutes, and opens it in the default browser (`openBrowserWindow`) – the language
   of the add-in.
 
